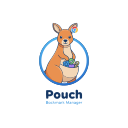
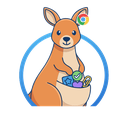
Updated SVG image

Changed region(s): [[0.125, 0.0312, 0.875, 0.8438]]

diff --git a/links/links.html b/links/links.html
@@ -21,18 +21,7 @@
       <header>
         <div class="header-top">
           <div class="logo-title">
-            <svg viewBox="0 0 40 40" class="logo-icon">
-              <circle cx="20" cy="20" r="18" fill="#f97316"/>
-              <g fill="#fff" transform="scale(0.3) translate(6, 8)">
-                <ellipse cx="85" cy="32" rx="14" ry="12"/>
-                <ellipse cx="92" cy="20" rx="5" ry="10"/>
-                <ellipse cx="60" cy="62" rx="28" ry="32"/>
-                <path d="M32 75 Q15 85, 18 105 Q22 108, 28 100 Q35 88, 42 82"/>
-                <ellipse cx="55" cy="100" rx="18" ry="10" transform="rotate(-15 55 100)"/>
-                <ellipse cx="80" cy="65" rx="6" ry="14" transform="rotate(25 80 65)"/>
-              </g>
-              <ellipse cx="19" cy="25" rx="4" ry="3.5" fill="#fdba74" stroke="#fff" stroke-width="0.5"/>
-            </svg>
+            <img src="../icons/icon-cropped.svg" alt="Pouch" class="logo-icon" />
             <h1>Pouch</h1>
           </div>
           <div class="header-actions">

diff --git a/popup/popup.html b/popup/popup.html
@@ -11,19 +11,7 @@
     <header>
       <div class="logo-row">
         <div class="logo" id="logo">
-          <svg viewBox="0 0 40 40" class="kangaroo-icon">
-            <!-- Kangaroo silhouette -->
-            <circle cx="20" cy="20" r="18" fill="#f97316"/>
-            <g fill="#fff" transform="scale(0.3) translate(6, 8)">
-              <ellipse cx="85" cy="32" rx="14" ry="12"/>
-              <ellipse cx="92" cy="20" rx="5" ry="10"/>
-              <ellipse cx="60" cy="62" rx="28" ry="32"/>
-              <path d="M32 75 Q15 85, 18 105 Q22 108, 28 100 Q35 88, 42 82"/>
-              <ellipse cx="55" cy="100" rx="18" ry="10" transform="rotate(-15 55 100)"/>
-              <ellipse cx="80" cy="65" rx="6" ry="14" transform="rotate(25 80 65)"/>
-            </g>
-            <ellipse cx="19" cy="25" rx="4" ry="3.5" fill="#fdba74" stroke="#fff" stroke-width="0.5"/>
-          </svg>
+          <img src="../icons/icon-cropped.svg" alt="Pouch" class="kangaroo-icon" />
         </div>
         <h1>Pouch</h1>
       </div>
